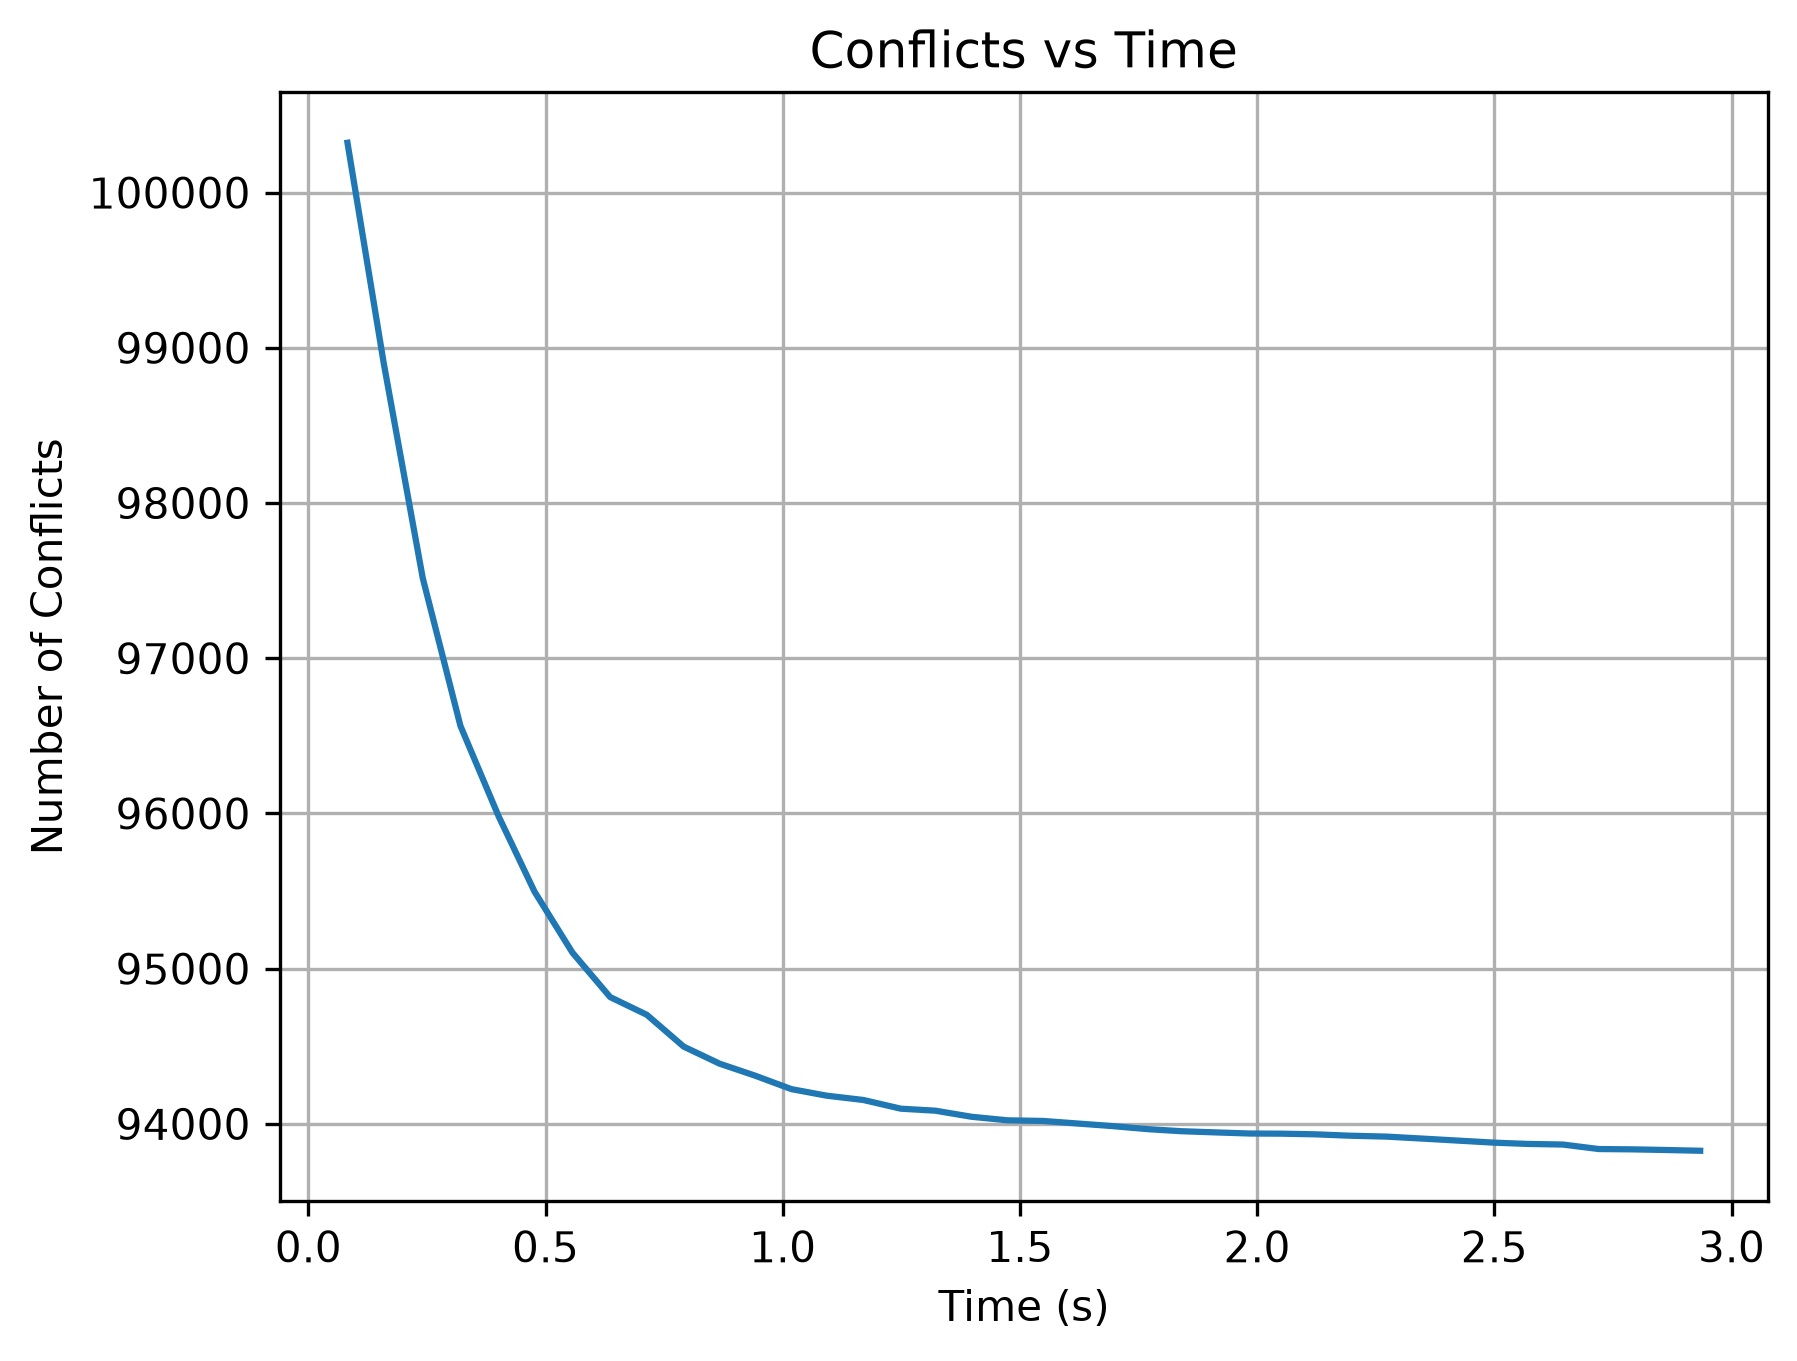
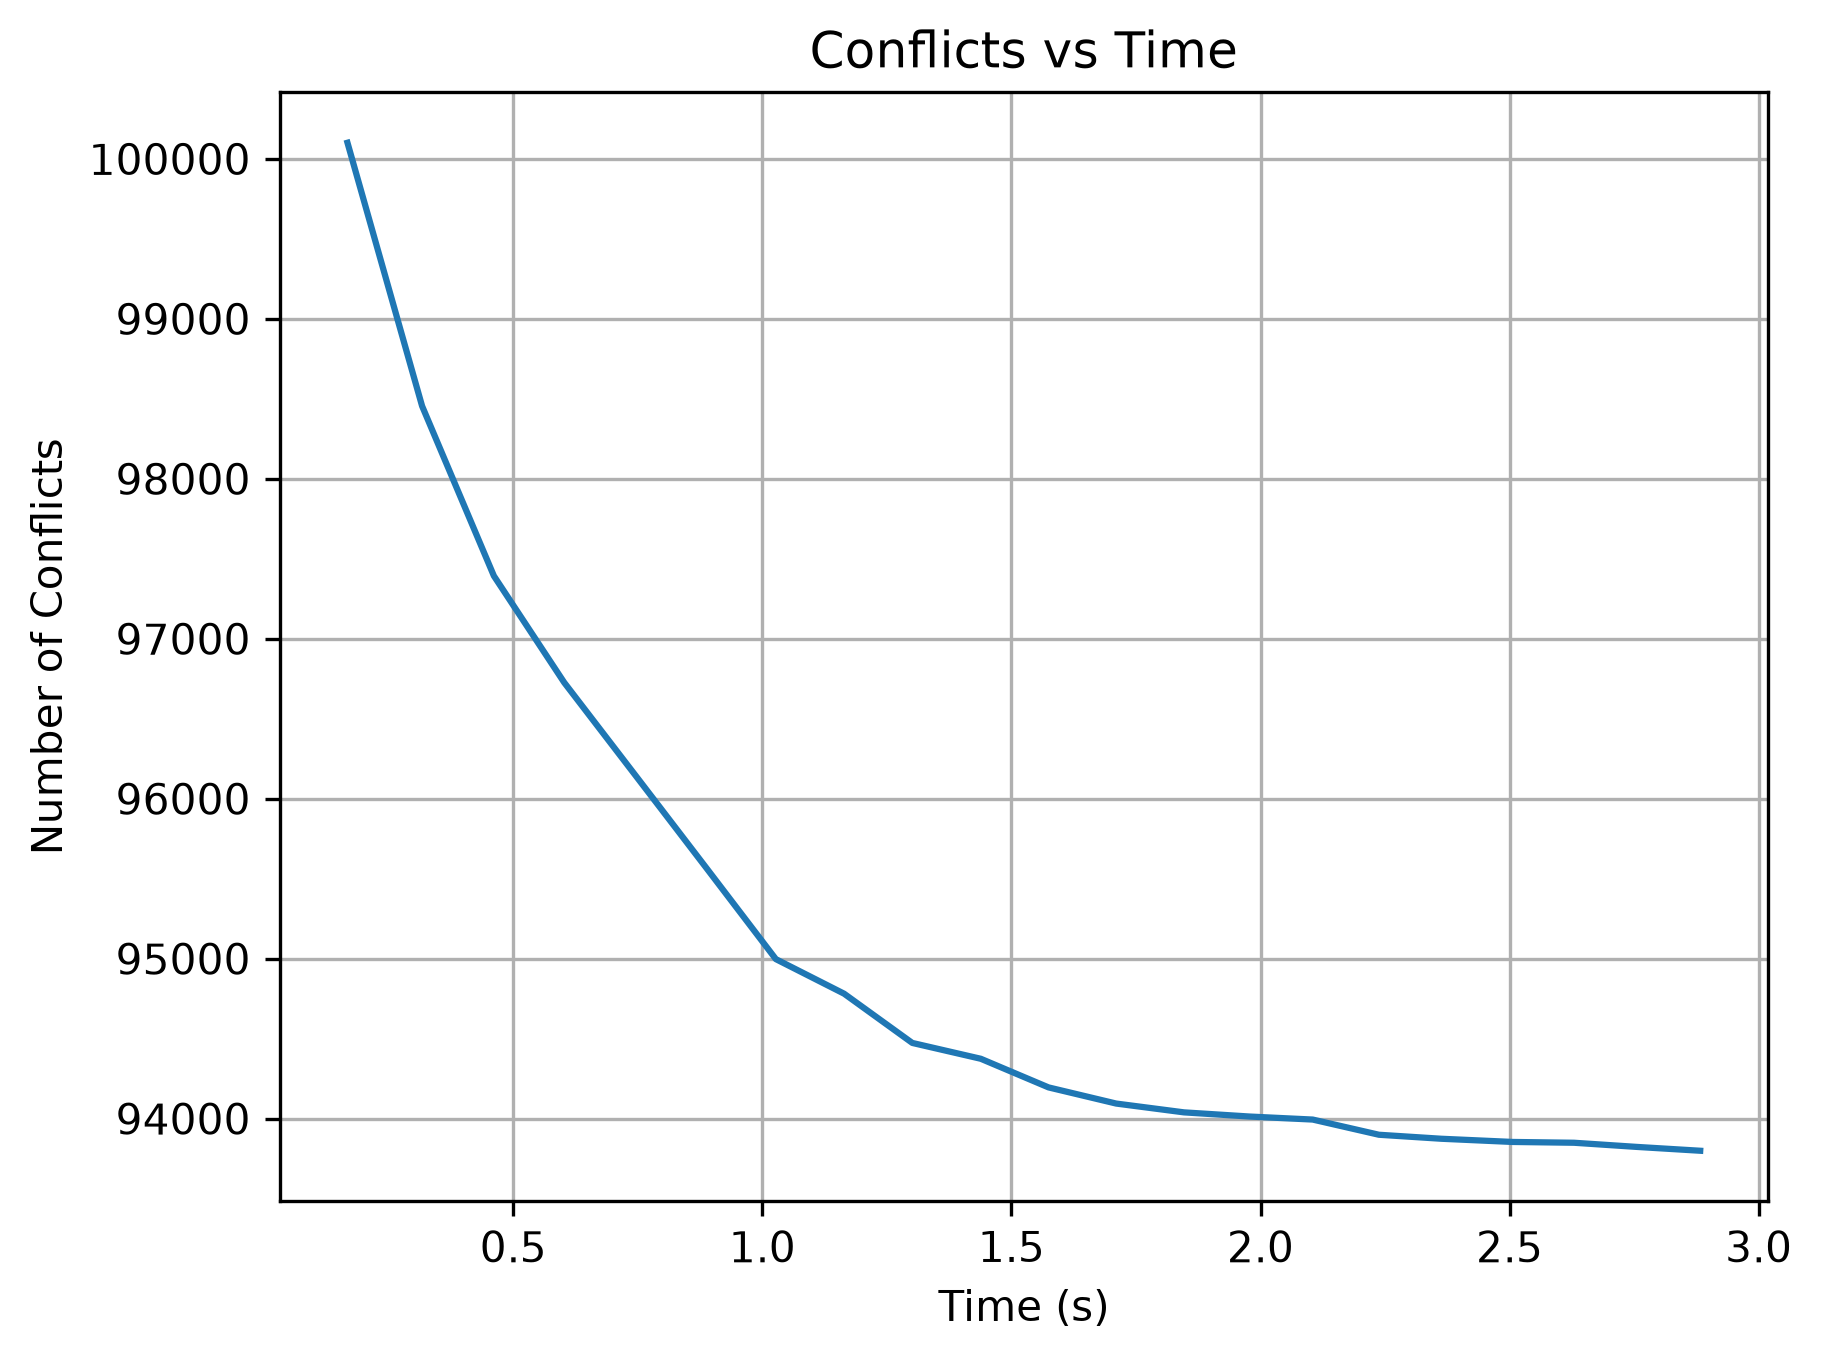
fixed stuff

diff --git a/codes/main.py b/codes/main.py
@@ -6,6 +6,7 @@ import numpy as np
 from graph_colorer import Graph
 
 from metropolis_solver import MetropolisSolver
+from gibbs_solver import GibbsSolver
 from random_solver import RandomSolver
 
 
@@ -67,65 +68,6 @@ def run_random_recoloring(graph_path, q, beta, n_seconds):
     wall_time = time.perf_counter() - start
     return trace, wall_time, graph.count_conflicts()
 
-
-def run_single_site_metropolis(graph_path, q, beta, n_seconds):
-    graph = Graph().from_file(graph_path)
-    initialize_random_colors(graph, q)
-    solver = MetropolisSolver(graph, q, beta=beta, n_seconds=n_seconds)
-    solver.save_plot = False
-
-    conflicts = graph.count_conflicts()
-    trace = []
-    start = time.perf_counter()
-
-    while time.perf_counter() - start < n_seconds:
-        for _ in range(graph.n_nodes):
-            node_i = int(_rng.integers(0, graph.n_nodes))
-            node = graph.nodes[node_i]
-            old_color = node.color
-            old_local_conflicts = graph.count_conflicts_i(node_i)
-
-            node.color = int(_rng.integers(0, q))
-            new_local_conflicts = graph.count_conflicts_i(node_i)
-            new_conflicts = conflicts - old_local_conflicts + new_local_conflicts
-
-            if _rng.random() < metropolis_acceptance(beta, new_conflicts - conflicts):
-                conflicts = new_conflicts
-            else:
-                node.color = old_color
-
-        trace.append(conflicts)
-
-    wall_time = time.perf_counter() - start
-    return trace, wall_time, conflicts
-
-
-def run_lifted_chromatic_potts(graph_path, q, beta, n_seconds, refresh_rate):
-    graph = Graph().from_file(graph_path)
-    initialize_random_colors(graph, q)
-    solver = LiftedChromaticPottsSolver(
-        graph,
-        q,
-        beta=beta,
-        n_seconds=n_seconds,
-        refresh_rate=refresh_rate,
-    )
-    solver.save_plot = False
-
-    conflicts = graph.count_conflicts()
-    trace = []
-    start = time.perf_counter()
-
-    while time.perf_counter() - start < n_seconds:
-        for color_class in solver.color_classes:
-            for node_i in color_class:
-                conflicts = solver._try_lifted_move(node_i, conflicts)
-        trace.append(conflicts)
-
-    wall_time = time.perf_counter() - start
-    return trace, wall_time, conflicts
-
-
 def benchmark_model(name, runner, graph_path, q, beta, n_seconds, refresh_rate):
     if name == "LiftedChromaticPotts":
         trace, wall_time, final_conflicts = runner(graph_path, q, beta, n_seconds, refresh_rate)
@@ -172,22 +114,19 @@ def parse_args():
 
 
 def main():
-    args = parse_args()
-    models = [
-        ("RandomRecoloring", run_random_recoloring),
-        ("SingleSiteMetropolis", run_single_site_metropolis),
-    ]
+    graph = Graph().from_file("graphs/graph5.txt")
 
-    print(
-        f"Benchmarking {args.graph} with q={args.q}, beta={args.beta}, "
-        f"{args.seconds:.1f}s per sampler"
-    )
+    q = 3
+    beta = 10
+    run_time = 3.0
 
-    results = [
-        benchmark_model(name, runner, args.graph, args.q, args.beta, args.seconds, args.refresh_rate)
-        for name, runner in models
-    ]
-    print_results(results)
+    random_solver = RandomSolver(graph, q, beta, run_time)
+    metropolis_solver = MetropolisSolver(graph, q, beta, run_time)
+    gibbs_solver = GibbsSolver(graph, q, beta, run_time)
+
+    random_solver.solve()
+    metropolis_solver.solve()
+    gibbs_solver.solve()
 
 
 if __name__ == "__main__":

diff --git a/codes/samplers.py b/codes/samplers.py
@@ -8,15 +8,15 @@ def _metropolis_acceptance(beta, energy_delta):
     return np.exp(-beta * energy_delta)
 
 
-def gibbs_sampler(g, node_i, beta):
+def gibbs_sampler(g, node_i, q, beta):
     nd = g.nodes[node_i]
 
     old_local_conflicts = g.count_conflicts_i(node_i)
     old_color = nd.color
 
-    pmf = np.zeros(g.q)
+    pmf = np.zeros(q)
 
-    for new_color in range(g.q):
+    for new_color in range(q):
         nd.color = new_color
 
         new_local_conflicts = g.count_conflicts_i(node_i)
@@ -33,24 +33,22 @@ def gibbs_sampler(g, node_i, beta):
 
     pmf /= total
 
-    sample = _rng.random_choice(np.arange(g.q), pmf)
+    sample = int(_rng.choice(np.arange(q), p = pmf))
 
     nd.color = sample
     d_conflicts = g.count_conflicts_i(node_i) - old_local_conflicts
 
     nd.color = old_color
 
-    return sample, d_conflicts
+    return sample
         
 
 # returns new color and the change in conflicts
-def metropolis_sampler(g, node_i, beta, new_color_i = None):
+def metropolis_sampler(g, node_i, beta, q, new_color = None):
     nd = g.nodes[node_i]
 
-    new_color = _rng.integers(0, g.q)
-    
-    if not new_color_i is None:
-        new_color = new_color_i
+    if new_color is None:
+        new_color = _rng.integers(0, q)
 
     old_color = nd.color
 
@@ -69,10 +67,10 @@ def metropolis_sampler(g, node_i, beta, new_color_i = None):
     nd.color = old_color
     
     if _rng.random() < prob:
-        return new_color, d_conflicts
+        return new_color
 
     else:
-        return old_color, d_conflicts
+        return old_color
     
 # def _greedy_independent_sets(graph):
 #     node_to_class = [-1 for _ in range(graph.n_nodes)]